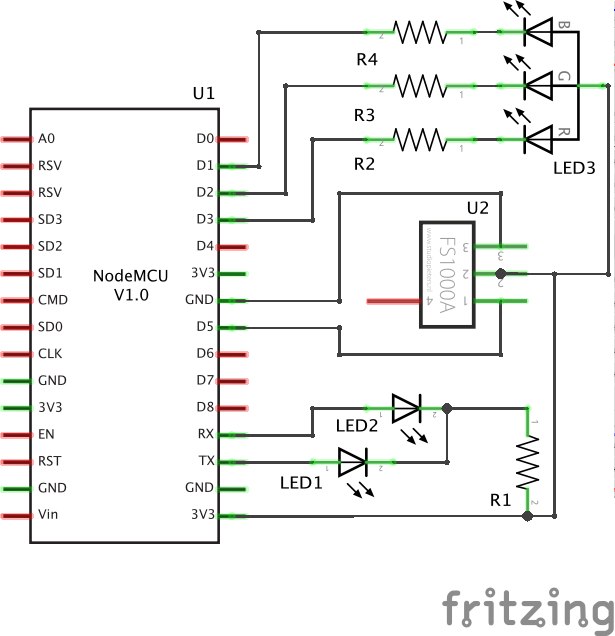
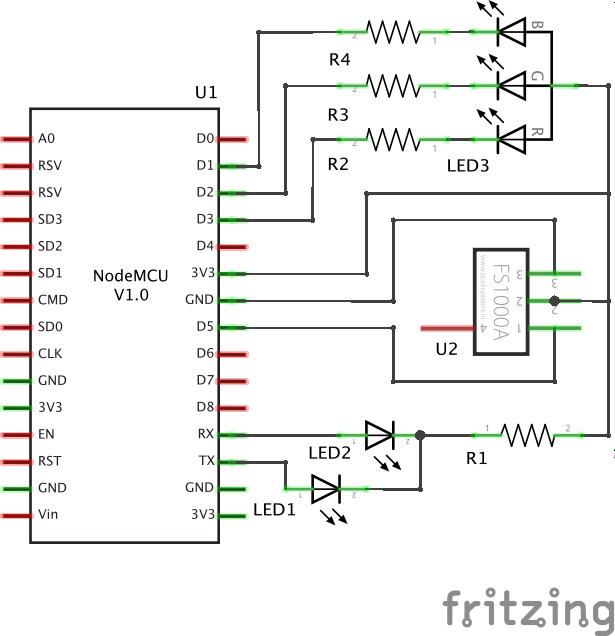
Got 12 sockets now -> increase the number, store config, update wiring

diff --git a/lib/_init/_init.hpp b/lib/_init/_init.hpp
@@ -13,7 +13,7 @@
 #define COVER_W_SSID        "aether"        // wifi pass if no config file
 
 #define FLASH_CONFIG        "/config_file"  // config filename
-#define FLASH_INILEN        8               // how many values may be stored
+#define FLASH_INILEN        16              // how many values may be stored
 #define FLASH_RASTER        16              // width of key & value in text
 
 #define LIGHT_LED_BB        D1
@@ -22,7 +22,7 @@
 
 #define POWER_FAMILY        "01101"
 #define POWER_REPEAT        10
-#define POWER_SWITCH        3               // how many switches to reserve
+#define POWER_SWITCH        12              // how many switches to reserve
 #define POWER_TX_PIN        D5
 
 #define SERVE_HARBOR        80              // the port :)

diff --git a/etc/sockets.rst b/etc/sockets.rst
@@ -1,0 +1,65 @@
+========= == ========= ==========
+``00000`` 00
+--------- -- --------- ----------
+``00001`` 01 ``E``     Light_Rack
+--------- -- --------- ----------
+``00010`` 02 ``D``     Light_Desk
+--------- -- --------- ----------
+``00011`` 03 ``DE``
+--------- -- --------- ----------
+``00100`` 04 ``C``     Light_Side
+--------- -- --------- ----------
+``00101`` 05 ``CE``
+--------- -- --------- ----------
+``00110`` 06 ``CD``    Stereo
+--------- -- --------- ----------
+``00111`` 07 ``CDE``
+--------- -- --------- ----------
+``01000`` 08 ``B``     Light_Tone
+--------- -- --------- ----------
+``01001`` 09 ``BE``
+--------- -- --------- ----------
+``01010`` 10 ``BD``    Kleinhirn
+--------- -- --------- ----------
+``01011`` 11 ``BDE``
+--------- -- --------- ----------
+``01100`` 12 ``BC``    Großhirn
+--------- -- --------- ----------
+``01101`` 13 ``BCE``
+--------- -- --------- ----------
+``01110`` 14 ``BCD``   AUX_0
+--------- -- --------- ----------
+``01111`` 15 ``BCDE``
+--------- -- --------- ----------
+``10000`` 16 ``A``     Light_Sofa
+--------- -- --------- ----------
+``10001`` 17 ``AE``
+--------- -- --------- ----------
+``10010`` 18 ``AD``    AUX_1
+--------- -- --------- ----------
+``10011`` 19 ``ADE``
+--------- -- --------- ----------
+``10100`` 20 ``AC``    AUX_2
+--------- -- --------- ----------
+``10101`` 21 ``ACE``
+--------- -- --------- ----------
+``10110`` 22 ``ACD``   AUX_3
+--------- -- --------- ----------
+``10111`` 23 ``ACDE``
+--------- -- --------- ----------
+``11000`` 24 ``AB``
+--------- -- --------- ----------
+``11001`` 25 ``ABE``
+--------- -- --------- ----------
+``11010`` 26 ``ABD``
+--------- -- --------- ----------
+``11011`` 27 ``ABDE``
+--------- -- --------- ----------
+``11100`` 28 ``ABC``
+--------- -- --------- ----------
+``11101`` 29 ``ABCE``
+--------- -- --------- ----------
+``11110`` 30 ``ABCD``
+--------- -- --------- ----------
+``11111`` 31 ``ABCDE``
+========= == ========= ==========
